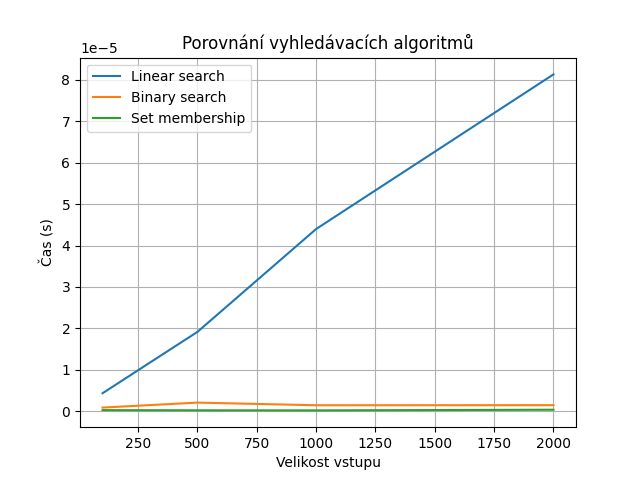
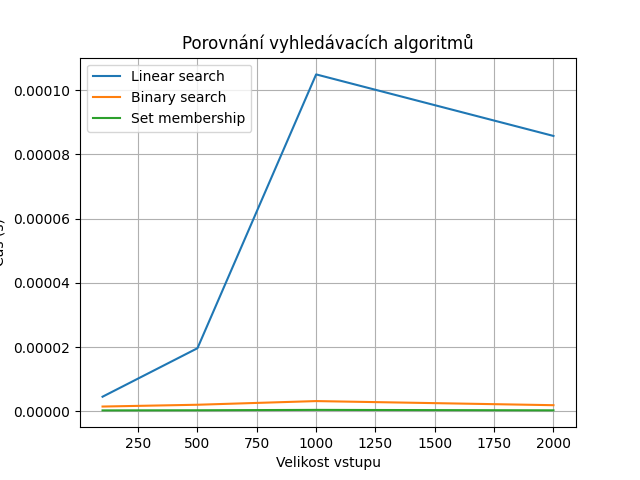
:(

diff --git a/searching.py b/searching.py
@@ -67,6 +67,18 @@ def measure_time(func, data, target, repeats=5):
 
     return total_time / repeats
 
+def pattern_search(sequence, pattern):
+    positions = set()
+    m = len(pattern)
+    n = len(sequence)
+
+    for i in range(n - m + 1):
+
+        if sequence[i:i + m] == pattern:
+            positions.add(i)
+
+    return positions
+
 
 
 def main():
@@ -114,6 +126,13 @@ def main():
 
     plt.savefig("graf.png")
     plt.show()
+
+    dna_sequence = read_data("sequential.json", "dna_sequence")
+    pattern = "ATA"
+    result = pattern_search(dna_sequence, pattern)
+    print("DNA sekvence:", dna_sequence)
+    print("Vzor:", pattern)
+    print("Pozice výskytu:", result)
 
 
 
